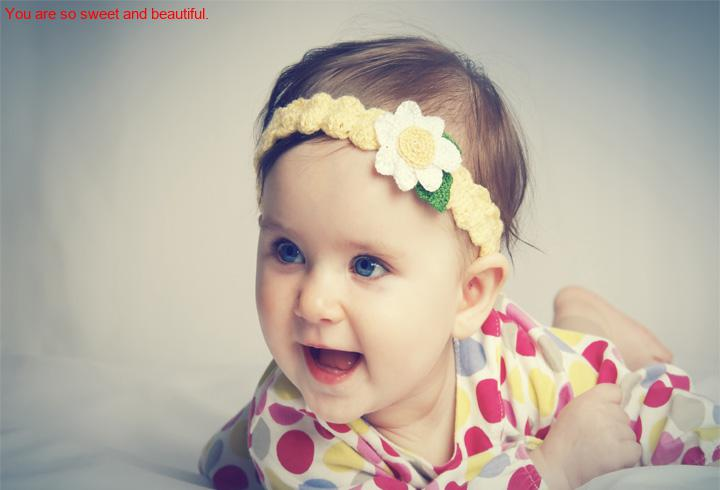
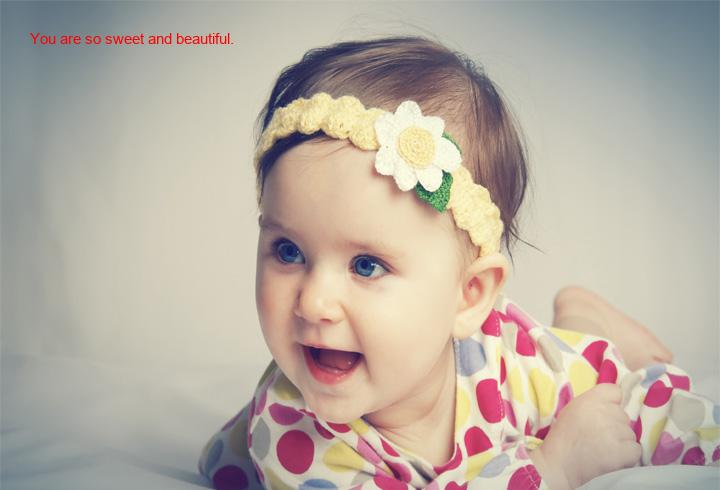
change mark position for escaping from video player frame

Changed region(s): [[0.0, 0.0, 0.3361, 0.0918]]

diff --git a/mark.py b/mark.py
@@ -13,7 +13,7 @@ def mark_img(src_file, marks, dst_file):
     # text_width, text_height = draw.textsize(marks, font)
 
     # calculate the x,y coordinates of the text
-    margin = 5
+    margin = 30
     x = margin
     y = margin
 
